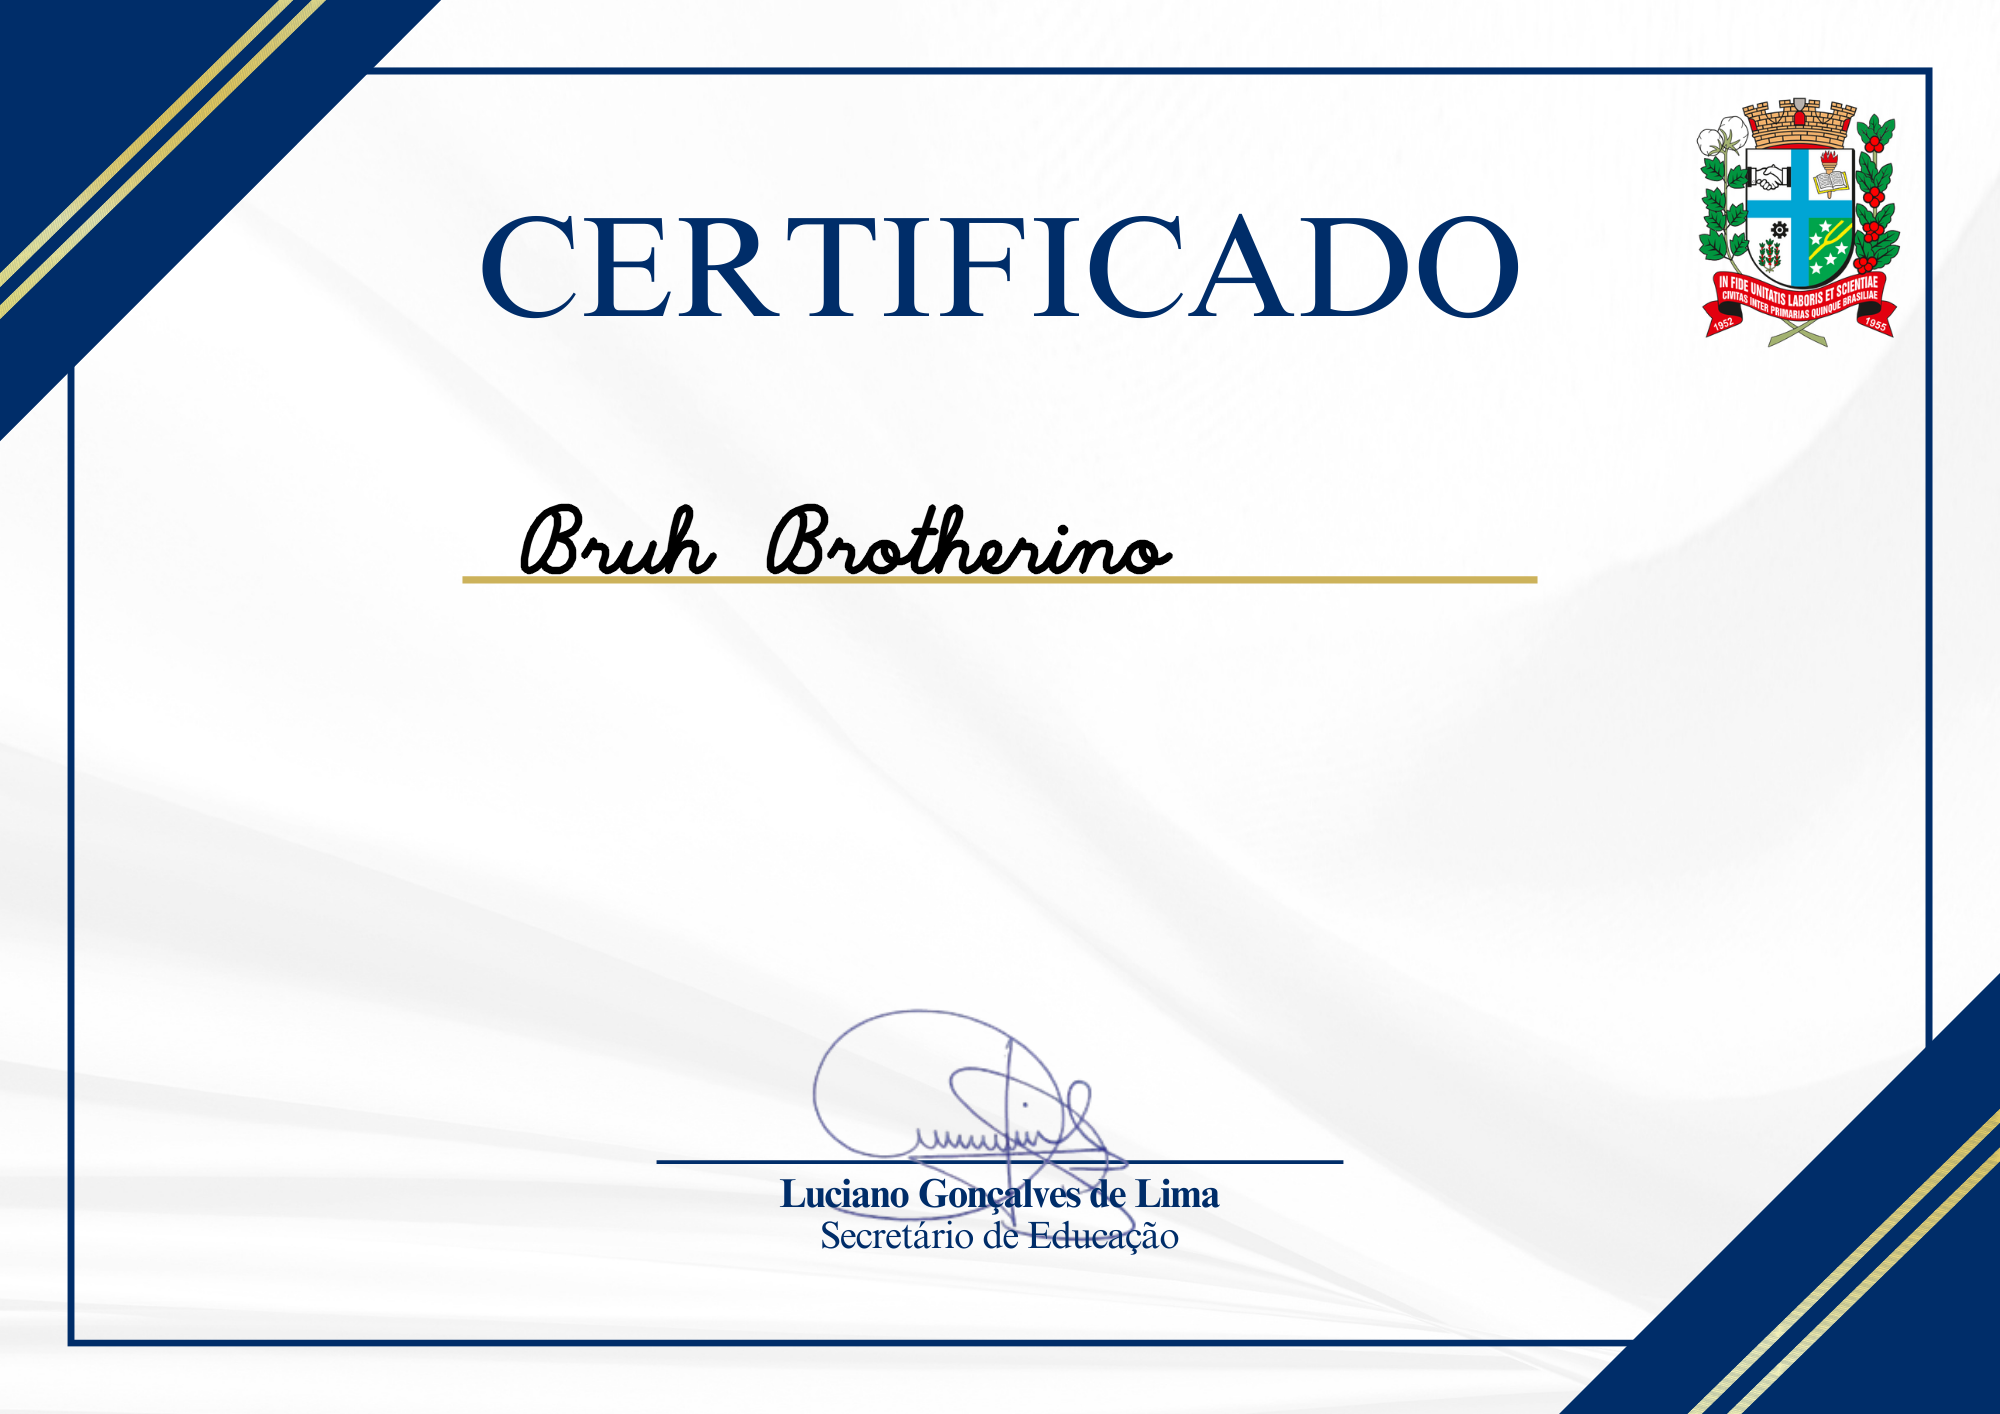
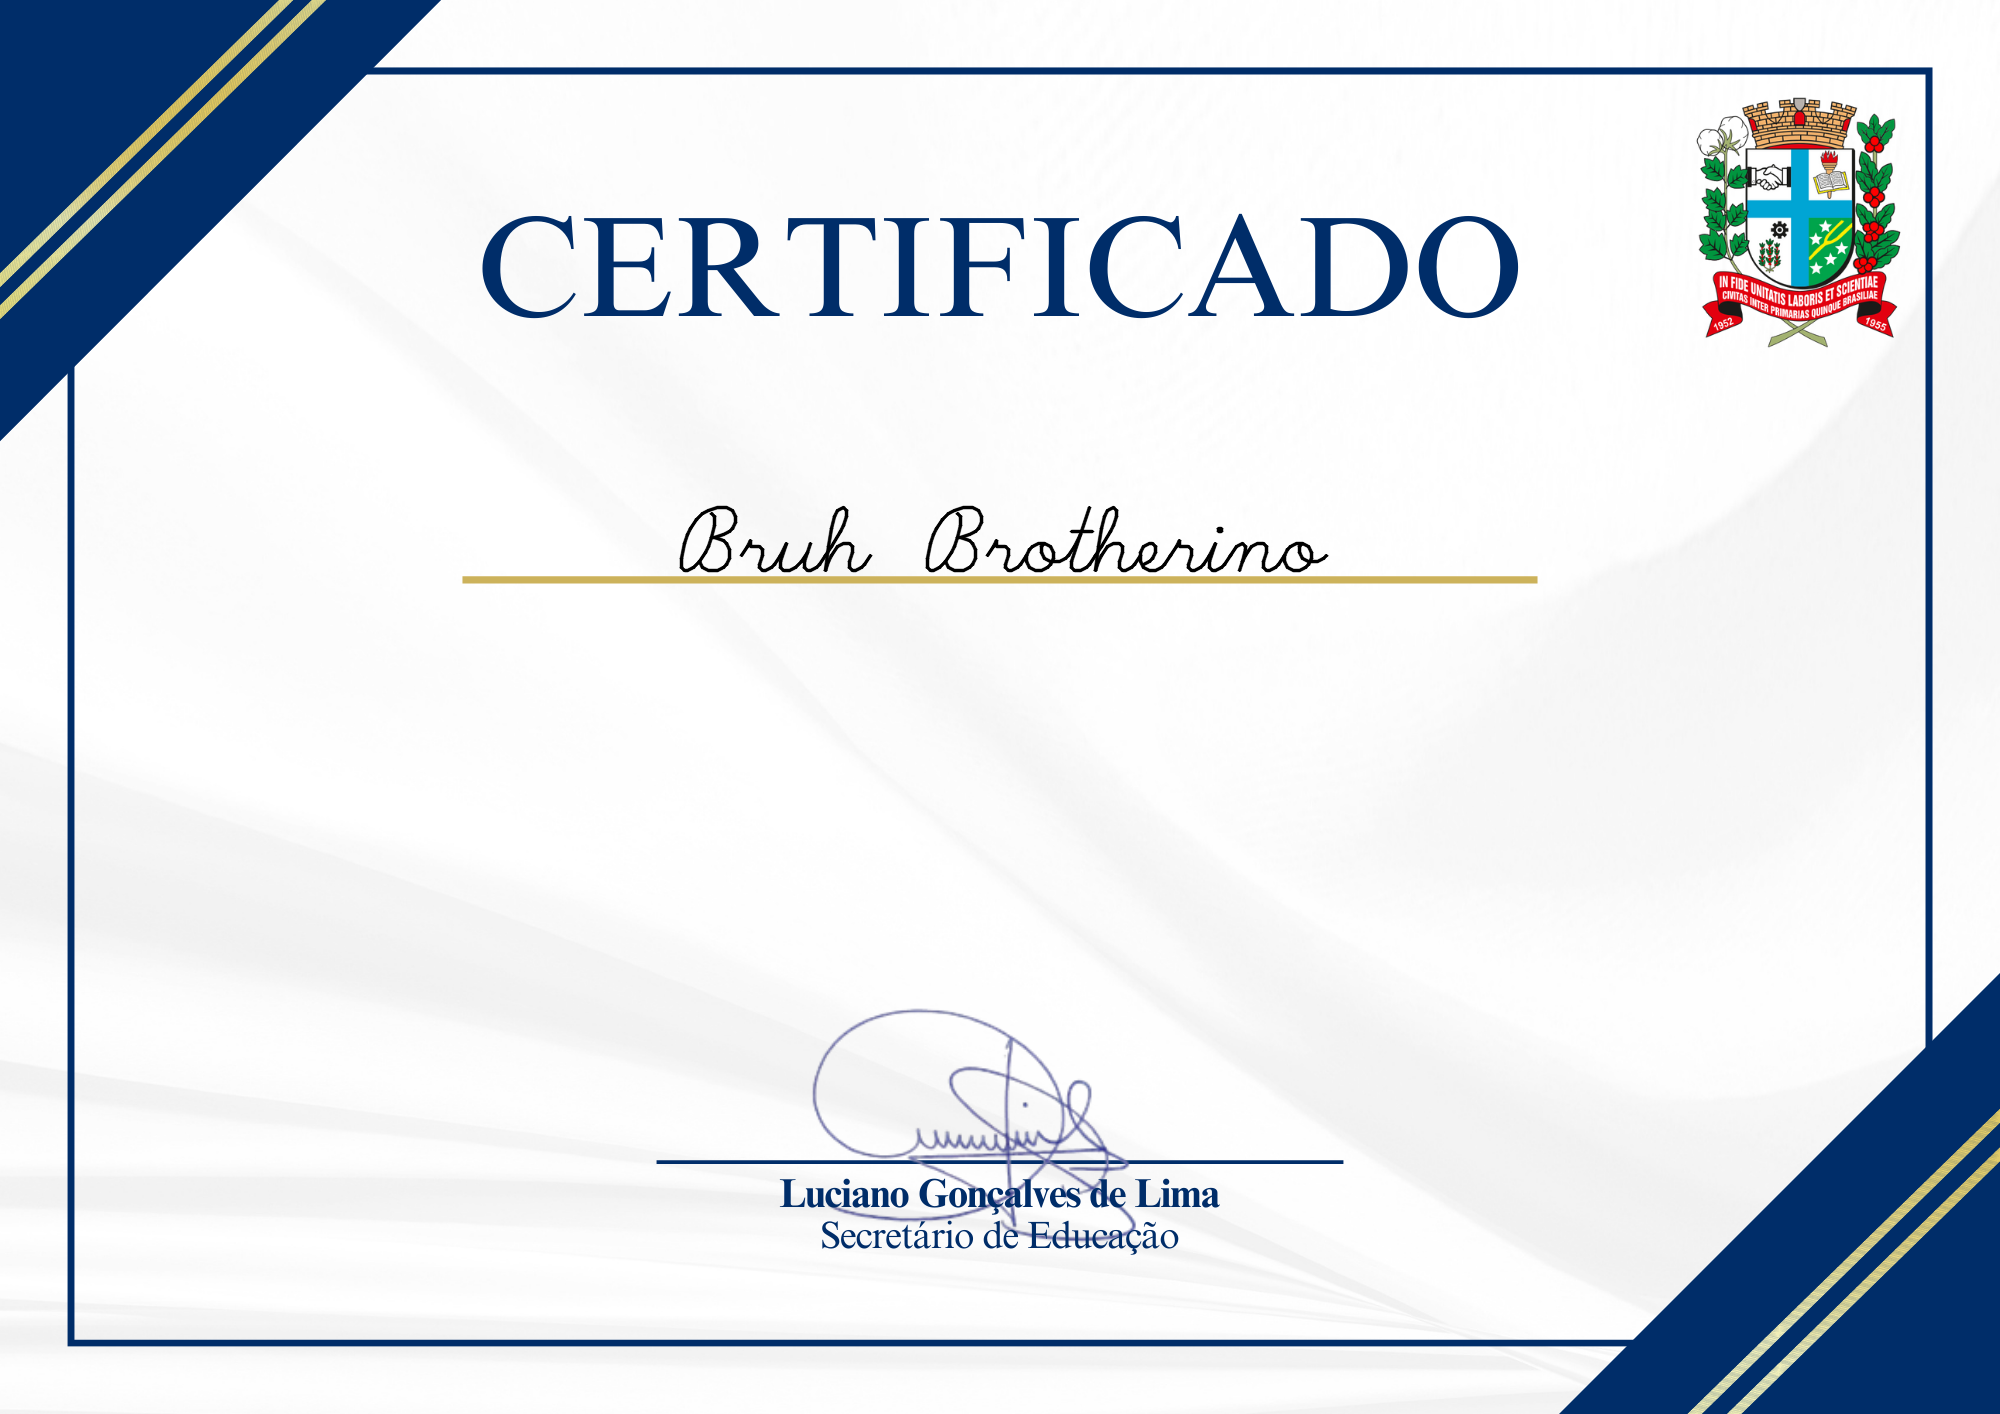
Fix: center inserted text

Changed region(s): [[0.248, 0.3423, 0.651, 0.4045]]

diff --git a/cert_gen.py b/cert_gen.py
@@ -29,15 +29,21 @@ def generate_certs(font_scale, template_file):
         print(f"Error: Unable to read template file at {template_path}")
         return
 
-
+    template_height, template_width = template.shape[:2]
     for name in name_list:
         try:
             cert = template.copy()
+
+            text_size = cv2.getTextSize(name, cv2.FONT_HERSHEY_SCRIPT_SIMPLEX, font_scale, 2)[0]
+            
+            text_x = (template_width - text_size[0]) // 2
+            text_y = 570
             
             output_path = os.path.join('generated-certs', f'{name}.png')
             # putText parameters:
             # (img to be used, string to insert, coordinate tuple, font, font scale, BGR color tuple, thickness, line type)
-            cv2.putText(cert, name, (515, 570), cv2.FONT_HERSHEY_SCRIPT_SIMPLEX, font_scale, (0, 0, 0), 5, cv2.LINE_AA)
+            # cv2.putText(cert, name, (515, 570), cv2.FONT_HERSHEY_SCRIPT_SIMPLEX, font_scale, (0, 0, 0), 2, cv2.LINE_AA)
+            cv2.putText(cert, name, (text_x, text_y), cv2.FONT_HERSHEY_SCRIPT_SIMPLEX, font_scale, (0, 0, 0), 2, cv2.LINE_AA)
             cv2.imwrite(output_path, cert)
             print(f'Certificate for {name} generated.')
         except Exception as e:

diff --git a/main.py b/main.py
@@ -8,10 +8,11 @@ while(run):
     print('Please select an option:\n')
     print('1. Generate certificate')
     print('2. Exit')
-    userInput = int(input())
+    # userInput = int(input())
+    userInput = input()
     
     match userInput:
-        case 1:
+        case '1':
             print('Input font scale (1-10):\n')
             font_scale = int(input())
             print('Input template file name:\n')
@@ -19,7 +20,7 @@ while(run):
 
             certGenerator.generate_certs(font_scale, template_file)
             run = False
-        case 2:
+        case '2':
             run = False
         case _:
             print('Invalid input.\n')
